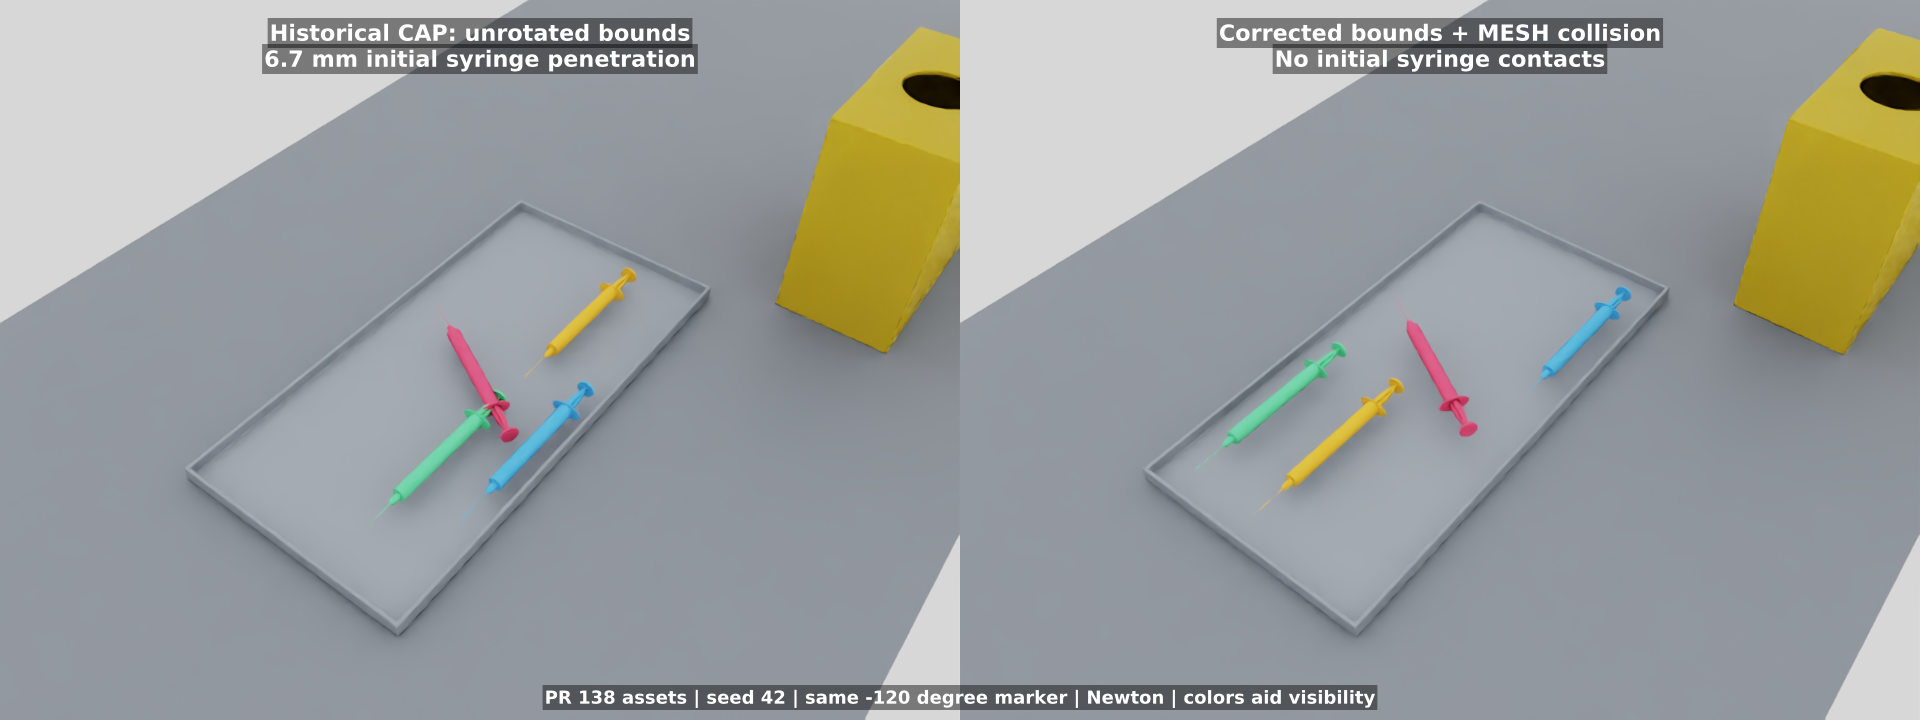
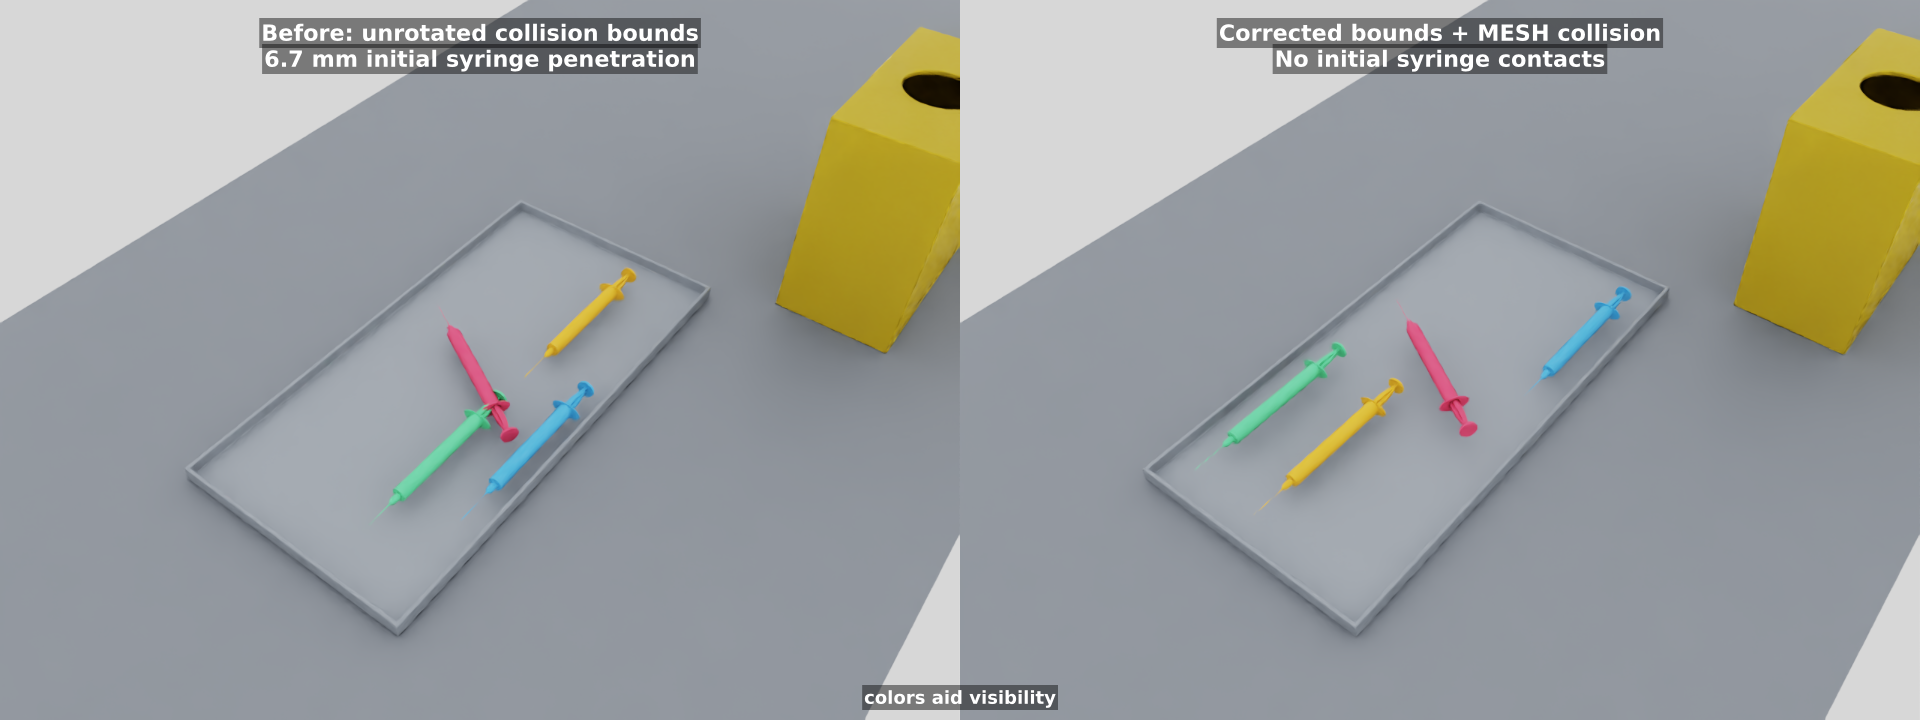
Remove private repository references from review media

Changed region(s): [[0.2812, 0.9472, 0.7188, 1.0], [0.125, 0.0306, 0.375, 0.0611]]

diff --git a/README.md b/README.md
@@ -1,9 +1,7 @@
-# RotateAroundSolution comparison image
+# Rotation collision comparison
 
-Review image for the marker-yaw collision-bounds fix. This media branch is not intended for merging.
+Review media for the marker-yaw collision-bounds fix. This branch is not intended for merging.
 
-Left: historical CAP rotation function, original syringe assets, seed 42, and a -120-degree marker. Placement reports success despite 6.745 mm of initial syringe-to-syringe penetration.
-
-Right: corrected bounds AND existing MESH collision mode for the syringes. Placement succeeds with zero initial syringe-to-syringe contacts. That mesh configuration is separate from the code PR; corrected AABB bounds alone did not find a valid layout in this crowded tray.
-
-The isolated replay uses current surrounding placement code and a compatible Newton runtime. It omits the robot and policy. Colors aid visibility. It is not a reproduction of the complete historical runtime or the reported high-speed ejection. Objects still move during settling.
+Left: incorrect bounds allow an overlapping initial placement.
+Right: corrected bounds with mesh collision checking produce no initial overlap.
+The right-hand mesh configuration is separate from the code PR. This image illustrates initial placement only.
